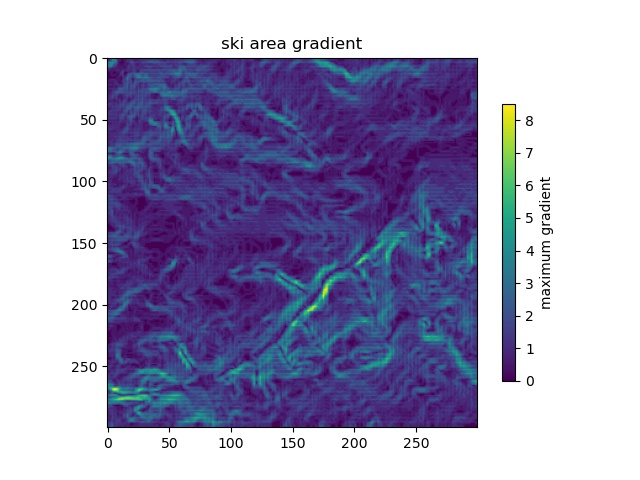
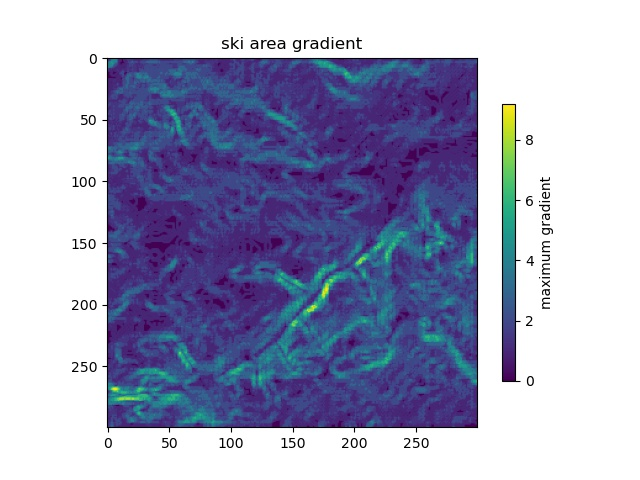
update webpage

diff --git a/assignment2.html b/assignment2.html
@@ -33,6 +33,7 @@ file directly into a numpy array. The matplotlib library was used for ploting th
 </p>
 <p>
 The ski area elevation is shown in Figure 1. The input file has 300 x 300 cells.
+Cell separation is assumed to be 1 metre and elevation is also in metres. 
 It is assumed that the first row of cells in the file corresponds to the northern
 most row, this is to match the gif image that was provided for the exercise.
 </p>
@@ -45,58 +46,48 @@ Maximum elevation is 255 m and minimum elevation is 92 m.
 <br>
 <h3><p style="text-decoration:underline;">Maximum Gradient</p>
 </h3>
-<p>The gradient is calculated at each raster cell by comparing the elevations
-in the eight surrounding cells. Gradient is calculated in a north-south
-direction, east-west direction, northeast-southwest, and northwest-southeast.
-The absolute of the maximum gradient is then plotted for each cell.
-Cell separation is assumed to be 1 metre 
-and elevation is in metres.
+<p>
+The gradient is calculated at each raster cell by comparing its elevation 
+with the elevations of the eight surrounding cells (Figure 2). 
+In this way there are eight gradients: one to the north, one to the northest, 
+one to the east, one to the southest etc. 
 </p>
-
-
-
-<figure><img src='gradient.jpeg'>
-<figurecaption><p><b>Figure 2. Maximum gradient at each raster cell. 
-</b></p></figurecaption></figure>
-
-<br>
-<h3>
-Methodology for calculating the maximum gradient
-</h3>
-<p> Each cell is surrounded by eight others (apart from the boundary cells).
-It would be possible to calculate the gradient between the central cell 
-(Cell 0, in Figure 3) and all of the eight surrounding cells. In this 
-way there would be a gradient to the north, a gradient to the south, to the northwest, 
-southest etc. However, in order to have a better representative gradient for
-the central cell it was decide to take an average gradient in each of the
-primary orientations; north-south, east-west, northeast-southwest, and
-northwest-southeast.
+<p>North gradient is =
+(elevation of cell 2 minus elevation of cell 0)/1.0
 </p>
-<figure><img src='methodcrop.jpg'>
-<figurecaption><p><b>Figure 3. The centre of each raster cell and its surrounding cells. 
-</b></p></figurecaption></figure>
-
-
-<p>In this way the average north-south gradient is 
-(elevation of cell 2 minus elevation of cell 7)/2.0. The average 
-northwest-southeast gradient is
-(elevation cell 1 minus elevation cell 8)/2.0*(sqrt(2)).
+<p>
+Northeast gradient is =
+(elevation cell 3 minus elevation cell 0)/(sqrt(2))
+</p>
+<p>
+South gradient is =
+(elevation cell 7 minus elevation cell 0)/1.0
 </p>
 <p>This method works for all the internal cells. For the boundary cells a slight
 modification is required. If Cell 0 falls on the northern boundary of the model
-then the north-south gradient is given by 
-(elevation of cell 0 minus elevation of cell 7)/1.0. Similarly, if Cell 0 is
-in the northwest corner of the model then the northwest-southest gradient
-is given by (elevation of cell 0 minus elevation of cell 8)/sqrt(2). The northeast-southwest
-gradient is assumed to be zero.</p>
+then the north, northwest, and northeast gradients are assumed zero. 
+Similarly, if Cell 0 is in the northwest corner of the model then 
+only the east, southeast and south gradients are calculated, 
+the other gradients are assumed to be zero. 
+</p>
 <p> It would have been possible to apply this methodology by looping through
 all cells and including a number of IF clauses, however the code runs quicker
 if we loop through the internal cells first and then have seperate loops 
 for each boundary</p>
-<p>The absolute gradient in all four directions is calculated and the 
-maximum value stored and printed in the gradient.txt file. </p>
+<p>The absolute gradient in all eight directions is calculated and the 
+maximum value stored for each cell (Figure 3).
+</p> 
+<p>The maximum absolute gradient for all cells is written to 
+<i>gradient.txt file.</i> </p>
 
-
+<br>
+<figure><img src='methodcrop.jpg'>
+<figurecaption><p><b>Figure 2.</b> The centre of each raster cell and its surrounding cells. 
+</p></figurecaption></figure>
+<br>
+<figure><img src='gradient.jpeg'>
+<figurecaption><p><b>Figure 3.</b> Maximum absolute gradient at each raster cell. 
+</p></figurecaption></figure>
 <br>
 <h3>
 Skier !
